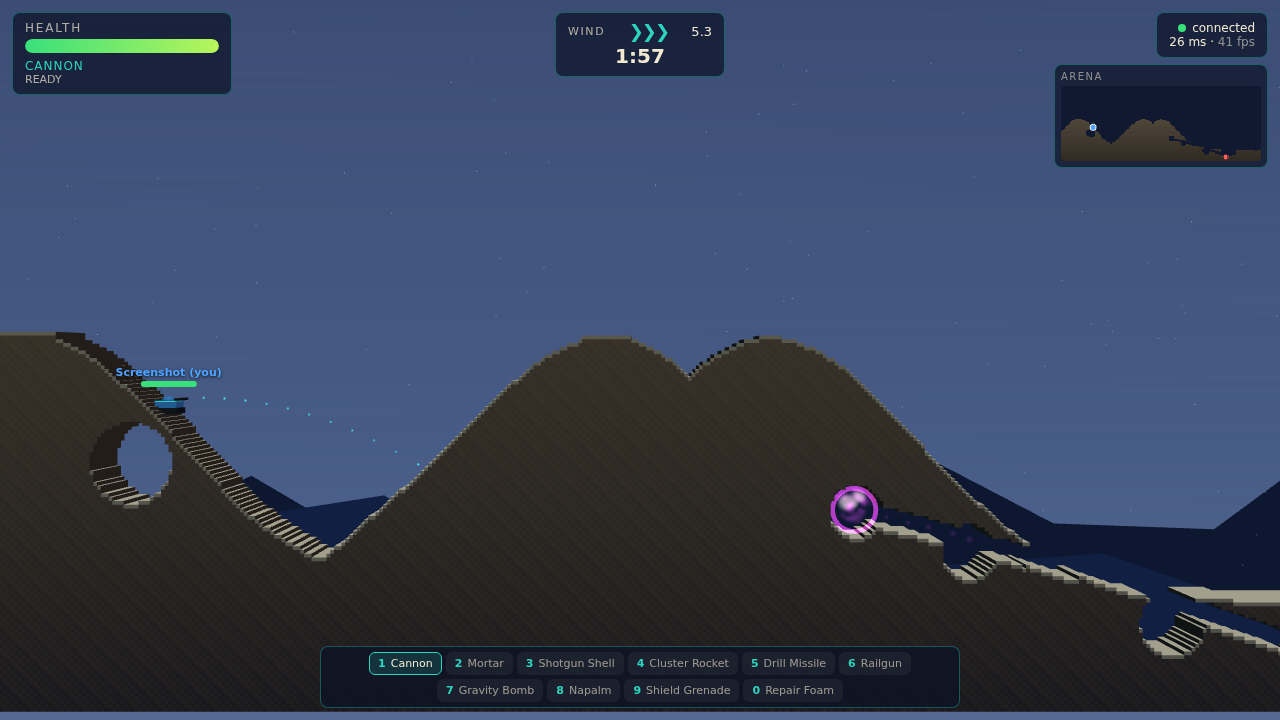
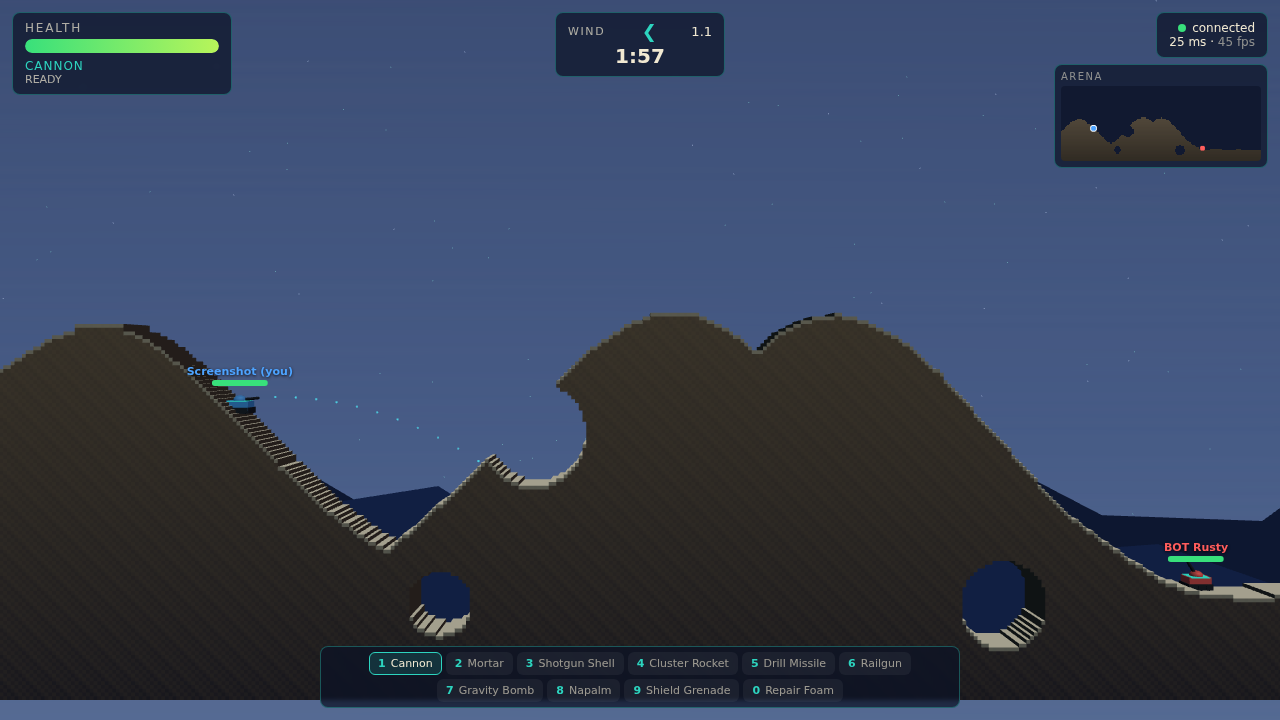
feat: add pause menu and quit to lobby
Esc (or gamepad Start) opens a pause menu with Resume and Quit to Lobby.
Pause is server-authoritative only for solo/bot matches (clients <= 1),
where the room skips its tick and the whole world — bots included —
freezes; shared matches ignore it so one player can't stop everyone. Quit
returns to the lobby via a clean reload. The screenshot gate now asserts
the pause menu opens and the bot freezes, and frees stale ports first so
it never attaches to a leftover server.

diff --git a/scripts/screenshot.ts b/scripts/screenshot.ts
@@ -5,7 +5,7 @@
  * opposing slot), and captures screenshots at fixed times. Fails when the
  * canvas renders blank or the client never reaches a playing match.
  */
-import { spawn, type ChildProcess } from "node:child_process";
+import { execSync, spawn, type ChildProcess } from "node:child_process";
 import { mkdirSync, statSync } from "node:fs";
 import path from "node:path";
 import { chromium } from "playwright";
@@ -16,6 +16,22 @@ const SHOT_TIMES_S = [2, 10, 30];
 const MIN_PNG_BYTES = 30_000; // a blank/black frame compresses far below this
 
 const children: ChildProcess[] = [];
+
+/** Kill any stale listener on a port so we never attach to a leftover server. */
+function freePort(port: number): void {
+  try {
+    const out = execSync(`ss -tlnp 2>/dev/null | grep ':${port} ' || true`).toString();
+    for (const m of out.matchAll(/pid=(\d+)/g)) {
+      try {
+        process.kill(Number(m[1]), "SIGKILL");
+      } catch {
+        /* already gone */
+      }
+    }
+  } catch {
+    /* ss unavailable — best effort */
+  }
+}
 
 function fail(message: string): never {
   console.error(`\n❌ SCREENSHOT GATE FAILED: ${message}`);
@@ -64,6 +80,12 @@ async function waitForHttp(url: string, timeoutMs: number): Promise<void> {
 async function run(): Promise<void> {
   mkdirSync("screenshots", { recursive: true });
 
+  // Clear any leftover server/client from a previous run so we never attach to
+  // a stale room (which would show phantom players).
+  freePort(SERVER_PORT);
+  freePort(CLIENT_PORT);
+  await new Promise((r) => setTimeout(r, 400));
+
   console.log("starting server…");
   start("npx", ["tsx", "server/index.ts"], { PORT: String(SERVER_PORT) });
   await waitForHttp(`http://localhost:${SERVER_PORT}/api/rooms`, 20_000);
@@ -110,6 +132,27 @@ async function run(): Promise<void> {
     }
     if (!flags.connected) fail(`connection dropped by t=${t}s`);
   }
+
+  // Pause check: in a solo match, Escape opens the pause menu and freezes the
+  // world. Measure after the interpolation buffer has caught up to the frozen
+  // server state, then confirm the bot does not move further.
+  const readEnemyX = () => page.evaluate(() => (window as any).__tankclash.enemyX as number);
+  await page.keyboard.press("Escape");
+  await new Promise((r) => setTimeout(r, 300));
+  const menuShown = await page.evaluate(
+    () => getComputedStyle(document.getElementById("pause-menu")!).display !== "none",
+  );
+  if (!menuShown) fail("pause menu did not open on Escape");
+
+  await new Promise((r) => setTimeout(r, 700)); // let interpolation settle on frozen state
+  const settledX = await readEnemyX();
+  await new Promise((r) => setTimeout(r, 2000));
+  const laterX = await readEnemyX();
+  if (Math.abs(laterX - settledX) > 0.3) {
+    fail(`bot kept moving while paused (Δx=${(laterX - settledX).toFixed(2)}) — solo pause should freeze the world`);
+  }
+  await page.screenshot({ path: path.join("screenshots", "paused.png") });
+  console.log(`  pause → menu shown, bot frozen (Δx=${(laterX - settledX).toFixed(2)})`);
 
   const avgFps = fpsSamples.reduce((a, b) => a + b, 0) / fpsSamples.length;
   console.log(`\n✅ SCREENSHOT GATE PASSED — avg fps ${avgFps.toFixed(0)} (headless swiftshader)`);

diff --git a/client/main.ts b/client/main.ts
@@ -39,10 +39,10 @@ async function boot() {
   const net = new NetClient();
   const params = new URLSearchParams(location.search);
 
-  window.__tankclash = { connected: false, players: 0, fps: 0, phase: "menu" };
+  window.__tankclash = { connected: false, players: 0, fps: 0, phase: "menu", enemyX: 0, paused: false };
 
   const choice = await showMenu(params);
-  window.__tankclash.phase = "connecting";
+  window.__tankclash!.phase = "connecting";
 
   try {
     await net.connect(choice.name, { mode: choice.mode, spectator: choice.spectator });
@@ -75,6 +75,20 @@ async function boot() {
   let predictedCharge = 0;
   let fps = 60;
 
+  // Pause menu: Esc/Start toggles, Resume closes, Quit returns to the lobby.
+  let paused = false;
+  const pauseMenu = document.getElementById("pause-menu")!;
+  const setPaused = (next: boolean) => {
+    paused = next;
+    pauseMenu.style.display = paused ? "flex" : "none";
+    net.sendPause(paused);
+  };
+  document.getElementById("resume-btn")!.addEventListener("click", () => setPaused(false));
+  document.getElementById("quit-btn")!.addEventListener("click", () => {
+    net.sendPause(false);
+    location.reload(); // back to a clean lobby
+  });
+
   function frame(now: number) {
     const dt = Math.min(0.1, (now - lastTime) / 1000);
     lastTime = now;
@@ -95,6 +109,12 @@ async function boot() {
     // Players predict and send input; spectators just watch.
     if (!net.spectator) {
       input.pollGamepad();
+
+      if (input.consumePauseToggle()) setPaused(!paused);
+    }
+
+    // While paused, hold position (no input) but keep rendering the world.
+    if (!net.spectator && !paused) {
 
       // Reconcile prediction against the latest authoritative server patch.
       if (net.serverVersion !== reconciledVersion) {
@@ -232,11 +252,20 @@ async function boot() {
       overlay.textContent = "CONNECTION LOST — RECONNECTING…";
     }
 
+    let enemyX = 0;
+    for (const [id, p] of players) {
+      if (id !== net.sessionId) {
+        enemyX = p.x;
+        break;
+      }
+    }
     window.__tankclash = {
       connected: net.connected,
       players: players.size,
       fps: Math.round(fps),
       phase: state?.phase ?? "unknown",
+      enemyX,
+      paused,
     };
 
     renderer.render(scene, followCam.camera);

diff --git a/client/index.html b/client/index.html
@@ -131,6 +131,22 @@
       }
       #play-btn:hover { filter: brightness(1.1); }
       #menu .hint { color: rgba(241,233,210,0.4); font-size: 12px; margin-top: 4px; }
+
+      #pause-menu {
+        position: absolute; inset: 0; z-index: 9; display: none;
+        flex-direction: column; align-items: center; justify-content: center; gap: 14px;
+        background: rgba(7, 11, 29, 0.72); backdrop-filter: blur(3px);
+      }
+      #pause-menu h2 { font-size: 44px; letter-spacing: 0.12em; }
+      #pause-menu .pause-note { color: rgba(241,233,210,0.5); font-size: 12px; margin-top: -6px; }
+      #pause-menu button {
+        padding: 12px 36px; border-radius: 10px; cursor: pointer; min-width: 220px;
+        font-size: 16px; letter-spacing: 0.06em; border: 1px solid rgba(45,212,191,0.4);
+        background: rgba(45,212,191,0.12); color: var(--cream);
+      }
+      #pause-menu button:hover { background: rgba(45,212,191,0.22); }
+      #pause-menu #quit-btn { border-color: rgba(255,93,93,0.4); background: rgba(255,93,93,0.12); }
+      #pause-menu #quit-btn:hover { background: rgba(255,93,93,0.22); }
     </style>
   </head>
   <body>
@@ -185,6 +201,13 @@
       </div>
 
       <div id="overlay-msg" class="hud panel" style="display:none"></div>
+    </div>
+
+    <div id="pause-menu">
+      <h2>PAUSED</h2>
+      <div class="pause-note">Esc or Start to resume</div>
+      <button id="resume-btn">Resume</button>
+      <button id="quit-btn">Quit to Lobby</button>
     </div>
 
     <div id="menu">

diff --git a/client/input/input.ts b/client/input/input.ts
@@ -31,6 +31,7 @@ export class InputManager {
   private mouseNdc = new THREE.Vector2();
   private dashQueued = false;
   private restartQueued = false;
+  private pauseToggleQueued = false;
   private weaponQueued: number | null = null;
   private weaponCycleQueued = 0;
   private seq = 0;
@@ -53,6 +54,7 @@ export class InputManager {
       this.keys.add(e.code);
       if (e.code === "ShiftLeft" || e.code === "ShiftRight") this.dashQueued = true;
       if (e.code === "Enter") this.restartQueued = true;
+      if (e.code === "Escape") this.pauseToggleQueued = true;
       const digit = e.code.match(/^Digit([0-9])$/);
       if (digit) {
         const n = Number(digit[1]);
@@ -122,7 +124,7 @@ export class InputManager {
     if (edge(1)) this.dashQueued = true; // B
     if (edge(5)) this.weaponCycleQueued = 1; // RB → next
     if (edge(4)) this.weaponCycleQueued = -1; // LB → prev
-    if (edge(9)) this.restartQueued = true; // Start
+    if (edge(9)) this.pauseToggleQueued = true; // Start → pause
 
     this.gpPrevButtons = pad.buttons.map((b) => b.pressed || b.value > TRIGGER_THRESHOLD);
   }
@@ -165,6 +167,13 @@ export class InputManager {
     const r = this.restartQueued;
     this.restartQueued = false;
     return r;
+  }
+
+  /** True if Escape (or the pad Start button) was pressed since last call. */
+  consumePauseToggle(): boolean {
+    const p = this.pauseToggleQueued;
+    this.pauseToggleQueued = false;
+    return p;
   }
 
   /** Returns a 0-based weapon index if a number key was pressed since last call. */

diff --git a/server/rooms/TankClashRoom.ts b/server/rooms/TankClashRoom.ts
@@ -16,6 +16,8 @@ export class TankClashRoom extends Room<GameState> {
   private lastSeed = 0;
   /** Total tanks to keep in the match (humans + bots): 2 for 1v1, 4 for 2v2. */
   private fillTo = 2;
+  /** Solo/bot matches can be truly paused; shared matches cannot. */
+  private paused = false;
 
   onCreate(options: { seed?: number; mode?: string } = {}) {
     const seed = Number.isFinite(options.seed) ? Number(options.seed) >>> 0 : (Date.now() & 0x7fffffff) >>> 0;
@@ -44,6 +46,10 @@ export class TankClashRoom extends Room<GameState> {
     this.onMessage(MSG.SELECT_WEAPON, (client, weaponId) => {
       if (typeof weaponId === "string") this.sim.selectWeapon(client.sessionId, weaponId);
     });
+    this.onMessage(MSG.PAUSE, (_client, paused) => {
+      // Only honor pause when a single human is connected (solo/bot match).
+      if (this.clients.length <= 1) this.paused = paused === true;
+    });
     this.onMessage(MSG.PING, (client, t) => {
       client.send(MSG.PONG, t);
     });
@@ -56,6 +62,7 @@ export class TankClashRoom extends Room<GameState> {
         typeof options.name === "string" && options.name.trim() ? options.name.trim().slice(0, 16) : "Player";
       this.sim.addPlayer(client.sessionId, name, false);
     }
+    this.paused = false; // a new arrival resumes the match
     this.fillBots();
     const init: TerrainInit = { seed: this.sim.state.terrainSeed, craters: this.sim.craters };
     client.send(MSG.TERRAIN_INIT, init);
@@ -63,6 +70,7 @@ export class TankClashRoom extends Room<GameState> {
 
   onLeave(client: Client) {
     this.sim.removePlayer(client.sessionId);
+    this.paused = false; // never strand the room paused after someone leaves
   }
 
   /** Top up the match with bots so it reaches the mode's tank count. */
@@ -79,6 +87,8 @@ export class TankClashRoom extends Room<GameState> {
   }
 
   private fixedTick() {
+    if (this.paused) return; // solo match frozen; state stops changing
+
     for (const [id, bot] of this.bots) {
       if (!this.sim.state.players.has(id)) continue;
       this.sim.setInput(id, bot.update(this.sim, FIXED_DT));

diff --git a/client/net/colyseusClient.ts b/client/net/colyseusClient.ts
@@ -163,6 +163,10 @@ export class NetClient {
     if (this.connected) this.room.send(MSG.SELECT_WEAPON, weaponId);
   }
 
+  sendPause(paused: boolean): void {
+    if (this.connected) this.room.send(MSG.PAUSE, paused);
+  }
+
   get state() {
     return this.room?.state;
   }

diff --git a/client/env.d.ts b/client/env.d.ts
@@ -8,5 +8,8 @@ interface Window {
     players: number;
     fps: number;
     phase: string;
+    /** X of the first non-local tank — lets tests detect a frozen (paused) world. */
+    enemyX: number;
+    paused: boolean;
   };
 }

diff --git a/shared/types.ts b/shared/types.ts
@@ -48,6 +48,7 @@ export const MSG = {
   INPUT: "input",
   RESTART: "restart",
   SELECT_WEAPON: "selectWeapon",
+  PAUSE: "pause",
   TERRAIN_INIT: "terrainInit",
   CRATER: "crater",
   EXPLOSION: "explosion",

diff --git a/PROGRESS.md b/PROGRESS.md
@@ -252,3 +252,27 @@ Verification gates: `npm run typecheck` · `npm test` · `npm run match:sim` · 
 - Limitation: live testing needs a physical controller; only the pure mapping is
   gate-covered. The full Milestone 3 feature set (minus the descoped replay
   recording) is now complete.
+
+## Iteration 12 — 2026-06-13 (pause + quit to lobby)
+
+- Changed: added a **pause menu** (Esc or gamepad Start) with Resume and Quit to
+  Lobby. Pause is honored server-side only when a single human is connected
+  (`clients.length <= 1`): the room skips its fixed tick, so a solo/bot match
+  truly freezes — bots included. In a shared match the request is ignored
+  (one player can't freeze everyone) and the menu is local-only; a new arrival
+  or a leave resumes the room. Quit to Lobby returns to the menu via a clean
+  reload. While paused the client stops sending input and renders the frozen
+  world behind a blurred overlay.
+  - Also fixed a latent gate-reliability bug found along the way: the screenshot
+    gate could attach to a leftover server from a prior run (showing phantom
+    players); it now frees ports 2567/8087 before starting.
+- Gates: typecheck PASS | tests PASS (49/49) | bot match PASS | screenshots OK
+- Measurements:
+  - the screenshot gate now asserts pause behavior: after Esc the pause menu is
+    visible and the bot's x is frozen (Δx=0.00 over 2 s once interpolation
+    settles) — `screenshots/paused.png` shows the overlay with both tanks halted
+  - 1v1 capture back to the correct 2 players after the port-cleanup fix
+- Rubric deltas: server stability stays 10 (pause is bounded to solo matches);
+  UI readability stays 10 (clear pause/quit flow).
+- This is a post-Milestone-3 usability addition requested after the spec
+  milestones were complete.

diff --git a/README.md b/README.md
@@ -75,6 +75,7 @@ SERVER_URL="game.example.com:2567" npm run build
 | `1`–`9`, `0` | select weapon |
 | `Tab` | scoreboard |
 | `Enter` | restart (on the win screen) |
+| `Esc` | pause menu (resume / quit to lobby) |
 
 A **gamepad** also works (standard mapping): left stick / d-pad move, A jump,
 B dash, right trigger charge/fire, right stick aim, LB/RB cycle weapons, Start
@@ -111,6 +112,10 @@ Pick from the lobby menu (or pass `?mode=2v2` / `?mode=spectate` in the URL):
 - **1v1** — you versus a bot
 - **2v2** — teams of two (bots fill empty slots)
 - **Spectate** — watch a bot match with a free action camera, no tank
+
+Press `Esc` in-match for the pause menu. In a solo/bot match pause freezes the
+whole world (bots included); in a shared match it's a local menu and the game
+keeps running. "Quit to Lobby" returns you to the menu.
 
 ## Verification
 